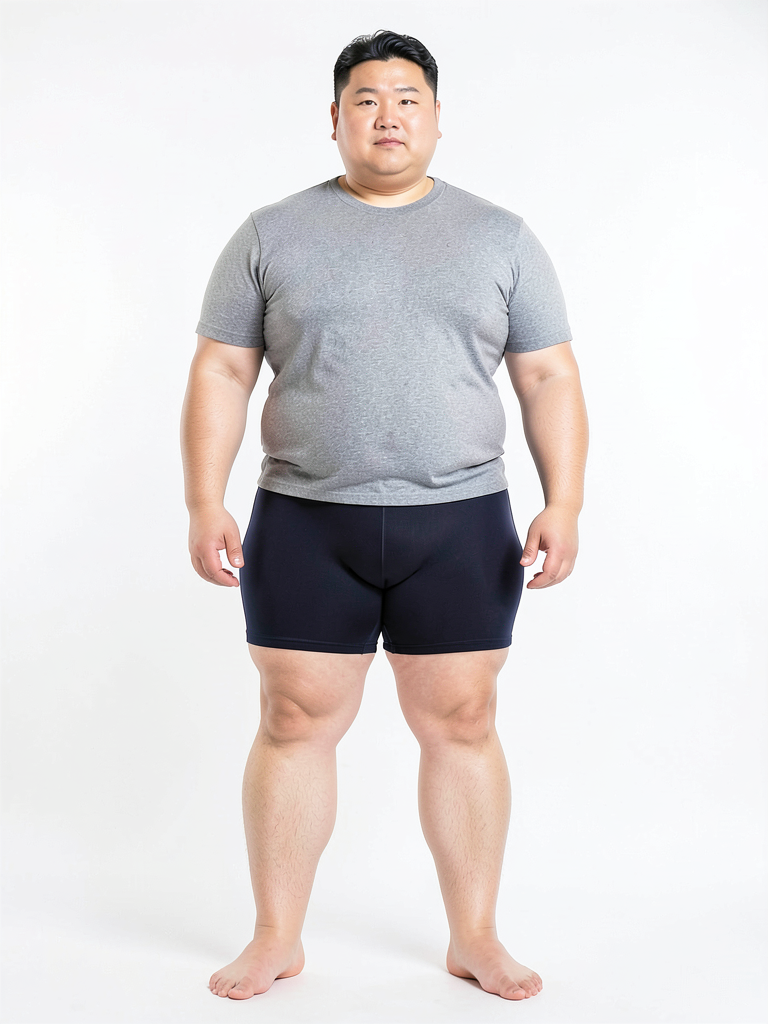
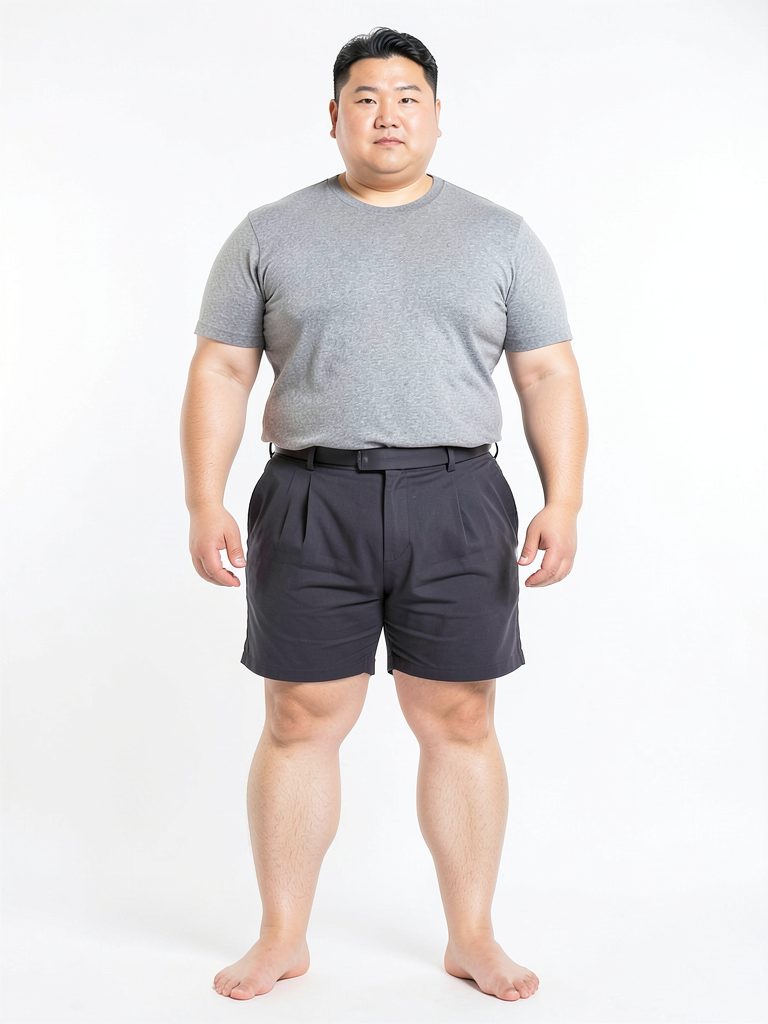
[S15P11A108-496] fix: 둘리 타이트 레퍼런스를 VLM 자동 캡션 기반으로 일반화
- generate_worn_reference_dooly_tight.py: 옷 설명을 손으로 쓰는 대신, worker/models/
  quality_vlm의 Qwen3-VL 로더(loader.load_qwen_vl/generate_from_image)로 실제 상품
  사진(pants.png)을 캡션해서 FLUX 프롬프트에 그대로 사용 -- 옷이 바뀌어도 재사용 가능
- 손으로 쓴 "compression shorts" 프롬프트는 실제 상품(진회색 벨트 반바지)과 색/스타일이
  달라 보이는 문제가 있었는데, VLM 캡션("dark charcoal grey tailored shorts with a
  belted waistband and pleated front")으로 바꾸니 타이트한 느낌은 유지하면서 상품과
  더 가까운 결과가 나왔다

diff --git a/AI/validation/TRYON/AI_tryon/CatVTON/generate_worn_reference_dooly_tight.py b/AI/validation/TRYON/AI_tryon/CatVTON/generate_worn_reference_dooly_tight.py
@@ -5,31 +5,67 @@
 CatVTON의 condition_image는 "옷이 몸에서 어디까지/얼마나 붙어서 덮는지"에 대한 직접적인
 시각 신호로 쓰이므로(§8.3), 폭 축을 마스크 침식뿐 아니라 레퍼런스 이미지 자체로도 강화해서
 같은 신호를 두 경로로 준다.
+
+**첫 버전은 옷 설명을 손으로 썼는데, 이러면 이 특정 상품(회색 벨트 반바지)에만 맞고 다른
+옷에는 재사용이 안 된다.** 대신 실제 상품 사진(`pants.png`)을 프로덕션에 이미 있는
+`worker/models/quality_vlm`의 Qwen3-VL 로더로 캡션해서, 그 캡션을 FLUX 프롬프트에 그대로
+넣는다 — 옷이 바뀌어도 같은 스크립트가 재사용된다. `quality_vlm.describer`(하자 설명
+전용, `sam3` 의존)는 쓰지 않고 범용 `loader.load_qwen_vl`/`generate_from_image`만 가져다
+쓴다.
 """
 
 import os
+import sys
 import time
+from pathlib import Path
 
 import torch
 from diffusers import Flux2KleinPipeline, Flux2Transformer2DModel, GGUFQuantizationConfig
+from PIL import Image
 from transformers import AutoModelForCausalLM, BitsAndBytesConfig
+
+_REPO_ROOT = Path(__file__).resolve().parents[5]
+_WORKER_MODELS_PATH = _REPO_ROOT / "worker" / "models"
+if str(_WORKER_MODELS_PATH) not in sys.path:
+    sys.path.insert(0, str(_WORKER_MODELS_PATH))
+
+from quality_vlm.loader import generate_from_image, load_qwen_vl  # noqa: E402
 
 OUT_DIR = "result/worn_references"
 os.makedirs(OUT_DIR, exist_ok=True)
 
 WIDTH, HEIGHT = 768, 1024
 NUM_STEPS = 8
+GARMENT_PATH = os.path.join("image", "alpha_2", "pants.png")
+
+CAPTION_PROMPT = (
+    "Describe this clothing item's color, fabric, and silhouette in one short phrase for a "
+    "fashion photo shoot brief, e.g. 'dark charcoal grey tailored shorts with a belted "
+    "waistband and pleated front'. Only describe the garment itself, do not mention a person."
+)
+
+print("=== Step 0: VLM로 실제 상품 사진 캡션 (Qwen3-VL-4B, 4bit) ===")
+t0 = time.time()
+vlm_bundle = load_qwen_vl("Qwen/Qwen3-VL-4B-Instruct", quantization="4bit")
+garment_image = Image.open(GARMENT_PATH).convert("RGB")
+garment_caption = generate_from_image(vlm_bundle, garment_image, CAPTION_PROMPT, max_new_tokens=60)
+print(f"캡션: {garment_caption!r} ({time.time() - t0:.1f}s)")
+
+# VLM을 내리고 VRAM을 비운다 -- FLUX 로드와 겹치면 경합으로 느려진다(이전 세션 HRNet 교훈).
+del vlm_bundle
+torch.cuda.empty_cache()
 
 PROMPT = (
     "full body studio photo of a heavyset plus-size Korean man with a bigger, larger build "
-    "standing straight, facing camera, wearing a fitted plain grey t-shirt and very tight "
-    "skin-hugging compression shorts that end well above the knee, the shorts fabric "
-    "stretched snugly against the thighs with visible tension, bare legs and shins clearly "
+    f"standing straight, facing camera, wearing a fitted plain grey t-shirt and {garment_caption}, "
+    "the fabric pulled taut and snug across the thighs showing visible tension because the "
+    "shorts are a size too small, ending well above the knee, bare legs and shins clearly "
     "visible below the shorts down to the ankles, plain solid white background, soft even "
     "studio lighting, photorealistic, sharp focus, e-commerce fashion model photo"
 )
+print(f"FLUX 프롬프트: {PROMPT!r}")
 
-print("=== Step 1: 텍스트 인코더 로드 ===")
+print("\n=== Step 1: 텍스트 인코더 로드 ===")
 t0 = time.time()
 quant_config = BitsAndBytesConfig(load_in_4bit=True, bnb_4bit_compute_dtype=torch.bfloat16)
 text_encoder = AutoModelForCausalLM.from_pretrained(

diff --git a/AI/validation/TRYON/AI_tryon/CatVTON/verify_size_fit_combined.py b/AI/validation/TRYON/AI_tryon/CatVTON/verify_size_fit_combined.py
@@ -46,7 +46,8 @@ GARMENT_WAIST_WIDTH_CM = 38.0  # 반바지 레퍼런스의 평편 원단 폭(가
 PEOPLE = {
     # (person_image, worn_reference, 가정 허리둘레cm) -- 허리둘레만 다르고 옷은 동일.
     # 둘리는 마스크 침식(폭 축)만으로는 타이트함이 육안상 약해서, 레퍼런스 자체도
-    # "타이트하게 입은" 버전(pants_worn_reference_dooly_tight.png)으로 바꿔 신호를 강화한다.
+    # "타이트하게 입은" 버전(pants_worn_reference_dooly_tight.png, VLM 자동 캡션 기반으로
+    # 생성 -- generate_worn_reference_dooly_tight.py)으로 바꿔 신호를 강화한다.
     "younghee_loose": ("younghee.png", "pants_worn_reference_younghee.png", 65.0),
     "cheolsu_regular": ("cheolsu.png", "pants_worn_reference_cheolsu.png", 75.0),
     "dooly_tight": ("dooly.png", "pants_worn_reference_dooly_tight.png", 110.0),
